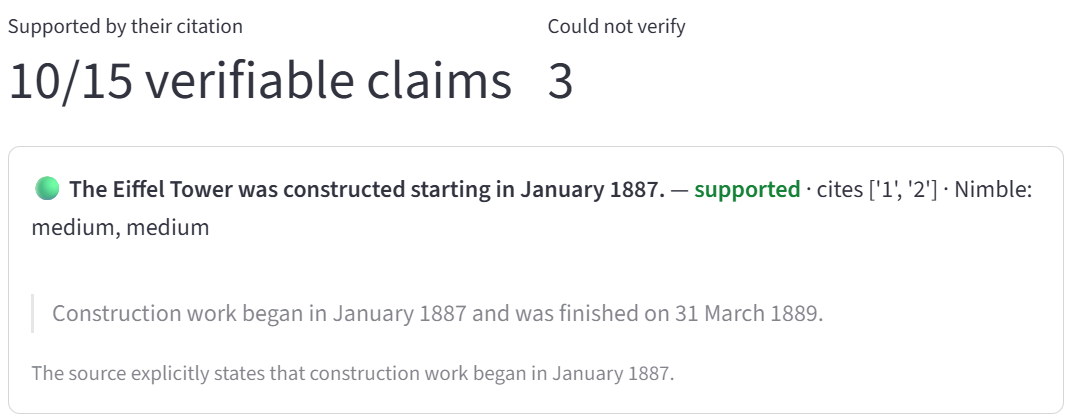
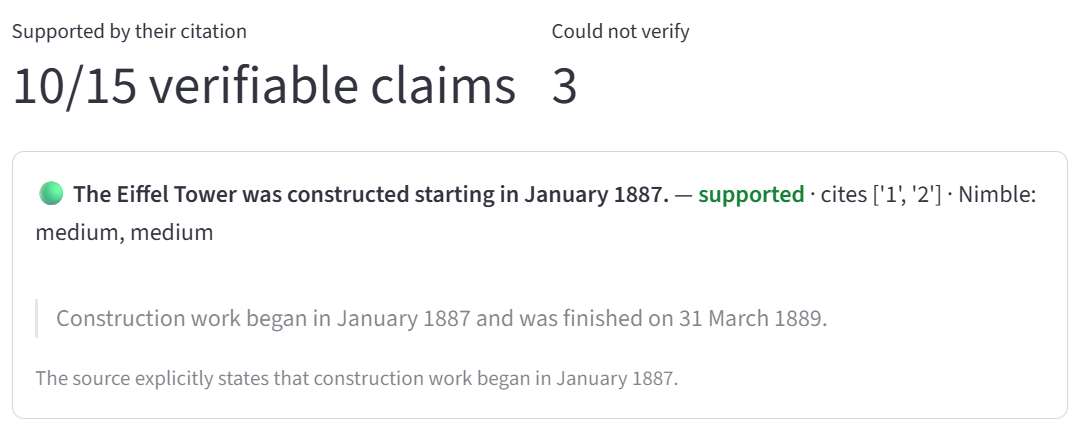
final uploads with claude data

diff --git a/app.py b/app.py
@@ -9,7 +9,7 @@ COLORS = {"supported": "green", "partial": "orange", "contradicted": "red", "not
 
 st.set_page_config(page_title="Citation Checker", page_icon="🔎")
 st.title("🔎 Citation Checker")
-st.caption("Does each cited source actually support the claim? Live pages via Nimble, judged by Gemini.")
+st.caption("Does each cited source actually support the claim? Live pages via Nimble, judged by Gemini, double-checked by Claude.")
 
 def show(results, nimble_conf=None):
     verifiable = [r for r in results if r["verdict"] not in ("unverifiable", "no_citation")]

diff --git a/README.md b/README.md
@@ -16,7 +16,7 @@ Built solo in one day at the AI Engineer NYC Hackathon (October 11, 2026).
 2. **Fetch**: Nimble Extract fetches the live text of each cited page (with JavaScript rendering), cleaned with `trafilatura` and cached locally.
 3. **Split**: Gemini breaks the answer into atomic, self-contained claims, keeping each claim's citation numbers and qualifiers ("himself", "only", "about").
 4. **Judge**: Gemini labels each claim against its cited source, using only the source text, and quotes the sentence it relied on.
-5. **Verify the judge**: code checks that the quoted evidence actually appears in the source, and a second LLM pass checks that each negative verdict matches the judge's own reasoning. Pages that could not be fetched properly (too short, or identical text returned for different URLs) are marked `unverifiable` instead of blaming the source.
+5. **Check the judge**: code verifies that the quoted evidence actually appears in the source, and **Claude**, a model from a different family, checks that each negative verdict matches the judge's own reasoning. Pages that could not be fetched properly (too short, or identical text returned for different URLs) are marked `unverifiable` instead of blaming the source.
 
 The Streamlit app has three modes: ask a Nimble agent and audit its answer live, check a pasted answer, or replay a saved run.
 
@@ -33,9 +33,9 @@ Every label is about **the cited page**, not about the real world. A claim can b
 | `unverifiable` | The page could not be fetched properly, so the claim could not be checked |
 | `no_citation`  | The claim has no citation at all                                          |
 
-**Labeling standard:** the same fact in different words counts as `supported` ("centerpiece" vs. "main attraction"); a different fact does not ("entrance arch" vs. "centrepiece"). Minor rounding in unit conversions (1,082 vs. 1,083 feet) counts as `supported`. When a page contains the pieces of a claim but never connects them, the claim is `partial`.
+**Labeling standard:** the same fact in different words counts as `supported` ("centerpiece" vs. "main attraction"); a different fact does not ("entrance arch" vs. "centrepiece"). Minor rounding in unit conversions (1,082 vs. 1,083 feet) counts as `supported`. A claim that follows directly from what the page says counts as `supported` (the climb to the top is 1,710 steps, and Eiffel climbed to the top). When a page contains the pieces of a claim but only plausibly links them, the claim is `partial` (Eiffel had a company, and Eiffel worked on the tower, but the page never says the company built it).
 
-**Coherence flag:** a second LLM pass checks whether the judge's label matches its own reasoning. It only runs on negative verdicts, to save API calls.
+**Coherence flag:** a second LLM pass (Claude) checks whether the judge's label matches its own reasoning. It only runs on negative verdicts, to save API calls.
 
 | Flag            | Meaning                                                                                  |
 | --------------- | ---------------------------------------------------------------------------------------- |
@@ -74,10 +74,9 @@ Notable cases:
 
 - **Too lenient:** "the tower was the *entrance arch* of the fair" was `supported` by a sentence saying it was the *centrepiece*.
 - **Too literal:** "1,083 feet" was `contradicted` because the source says 1,082 feet, a unit-conversion rounding difference (330 m ≈ 1,082.7 ft).
-- **Verdict contradicts its own reasoning:** "Eiffel climbed the 1,710 steps on the day of completion" was labeled `contradicted`, while the judge's explanation says Eiffel did climb on foot that day.
-- **Coherence check:** a second LLM pass compares each negative verdict with the judge's own reasoning. On the saved run it flagged 3 of 5 negative verdicts, including the "1,710 steps" case. Because the checker is an LLM too, flags mean "needs human review", not ground truth (see section 5).
+- **Verdict contradicts its own reasoning:** "Eiffel climbed the 1,710 steps on the day of completion" was labeled `contradicted`, while the judge's explanation says Eiffel did climb on foot that day. The coherence check flags it for review.
 
-![Verdict inconsistent with its own reasoning](images/judge_inconsistency.png)
+![Verdict flagged for review](images/judge_inconsistency.png)
 
 ### 4. Judge stability (small pilot)
 
@@ -108,13 +107,22 @@ I labeled the 15 verifiable claims of the saved agent run myself, using the stan
 
 So on this run, the judge never approved a claim it shouldn't have; its failures were all false alarms. That points to a concrete fix: a second opinion before any negative verdict is shown.
 
-The coherence check flagged 3 verdicts; 2 were real errors ("French civil engineer", "1,710 steps") and 1 was a false flag. It missed the "1,083 feet" error, whose reasoning was internally consistent. On the 5 verdicts it reviewed, its suggested labels matched mine 3 times, versus 2 for the judge: a useful review signal, not a replacement for human labels.
+### 6. Checking the judge with a different model family
 
-**Caveats:** one annotator, 15 claims. Two of my labels were revised after re-reading the pages, and one of those after seeing the checker's suggestion, which risks anchoring; a cleaner protocol fixes human labels before looking at any model output. This is a pilot, not a benchmark. `la`
+The coherence check was first run with Gemini, the same model family as the judge. It flagged 3 verdicts: 2 real errors and 1 false flag. Because a same-family checker can share the judge's blind spots, I re-ran it with **Claude (`claude-haiku-5-5`)**:
 
-`bels.csv`, `score_labels.py` and `compare_checker.py` are in the repo.
+|                                                      | Gemini checker | Claude checker   |
+| ---------------------------------------------------- | -------------- | ---------------- |
+| Verdicts flagged                                     | 3              | 2                |
+| Flags that were real judge errors                    | 2              | **2**      |
+| False flags                                          | 1              | **0**      |
+| Suggested labels matching mine (5 reviewed verdicts) | 3 of 5         | **4 of 5** |
 
-### Engineering notes
+For comparison, the judge's own labels matched mine on 2 of those 5. Neither checker caught the over-strict "1,083 feet" verdict, whose reasoning was internally consistent. Small sample, but it supports using a different model family to check a judge, as a review signal rather than a replacement for human labels.
+
+**Caveats:** one annotator, 15 claims. Two of my labels were revised after re-reading the pages, and one of those after seeing the Gemini checker's suggestion, which risks anchoring; a cleaner protocol fixes human labels before looking at any model output. This is a pilot, not a benchmark. `labels.csv`, `score_labels.py` and `compare_checker.py` are in the repo.
+
+## Engineering notes
 
 - Gemini free tier: 15 requests/minute on the fast model and 20/day on the stronger one, plus 503/504 errors under load. Handled with retries and backoff, a 3-minute timeout, page caching, and the fast model as the default.
 - Every live run is saved (`last_run.json`), and a protected demo run (`demo_run.json`) can be replayed instantly.
@@ -127,7 +135,8 @@ Nimble's cookbook [Fact-check documents with LiteLLM and Nimble](https://www.nim
 ## Next steps
 
 - More answers and more annotators, to measure judge accuracy with confidence intervals and inter-annotator agreement.
-- Reduce false contradictions: a rounding-tolerance rule for numbers, and a second opinion before any `contradicted` verdict.
+- Reduce false contradictions: a rounding-tolerance rule for numbers, and a cross-family second opinion before any negative verdict is shown.
+- Compare full judges across model families, not just checkers.
 - Trim each page to the passage relevant to the claim (fewer tokens, fewer rate-limit hits).
 - Audit Nimble's verbatim excerpts at higher effort levels.
 
@@ -153,14 +162,16 @@ Then:
 streamlit run app.py
 ```
 
-| File                                                      | What it does                                                                                               |
-| --------------------------------------------------------- | ---------------------------------------------------------------------------------------------------------- |
-| `app.py`                                                | Streamlit interface (live agent audit, pasted answer, saved run)                                           |
-| `nimble_agent.py`                                       | Runs a Nimble Web Search Agent and returns answer, sources and confidence                                  |
-| `fetch.py`                                              | Fetches cited pages with Nimble Extract, with a cache and a fallback                                       |
-| `claims.py`                                             | Splits an answer into atomic claims                                                                        |
-| `judge.py`                                              | Labels each claim against its source, verifies the quoted evidence, and checks verdict-reasoning coherence |
-| `pipeline.py`                                           | Runs the full check, flagging unreadable sources                                                           |
-| `stability.py`, `prompts.py`                          | Judge stability analysis across prompts and models                                                         |
-| `audit_agent.py`                                        | Compares our verdicts with Nimble's confidence for a saved agent run                                       |
-| `export_labels.py`, `score_labels.py`, `labels.csv` | Human labels and judge accuracy                                                                            |
+| File                                                                              | What it does                                                                                                                 |
+| --------------------------------------------------------------------------------- | ---------------------------------------------------------------------------------------------------------------------------- |
+| `app.py`                                                                        | Streamlit interface (live agent audit, pasted answer, saved run)                                                             |
+| `nimble_agent.py`                                                               | Runs a Nimble Web Search Agent and returns answer, sources and confidence                                                    |
+| `fetch.py`                                                                      | Fetches cited pages with Nimble Extract, with a cache and a fallback                                                         |
+| `claims.py`                                                                     | Splits an answer into atomic claims (Gemini)                                                                                 |
+| `judge.py`                                                                      | Labels each claim against its source (Gemini), verifies the quoted evidence, and checks verdict-reasoning coherence (Claude) |
+| `llm.py`                                                                        | Gemini and Claude clients, with retries and timeouts                                                                         |
+| `pipeline.py`                                                                   | Runs the full check, flagging unreadable sources                                                                             |
+| `stability.py`, `prompts.py`                                                  | Judge stability analysis across prompts and models                                                                           |
+| `audit_agent.py`                                                                | Compares our verdicts with Nimble's confidence for a saved agent run                                                         |
+| `add_coherence.py`                                                              | Runs the coherence check on a saved run                                                                                      |
+| `export_labels.py`, `score_labels.py`, `compare_checker.py`, `labels.csv` | Human labels, judge accuracy, and checker comparison                                                                         |
